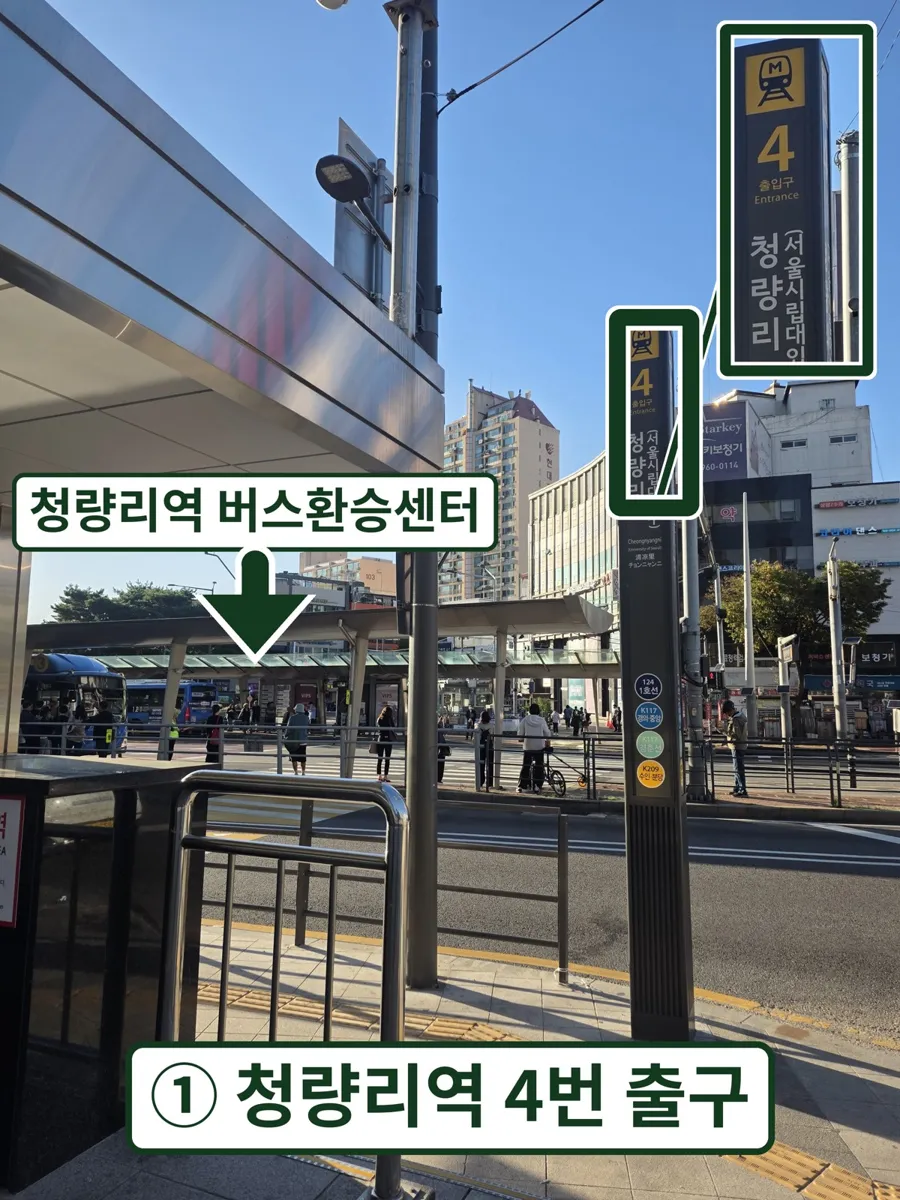
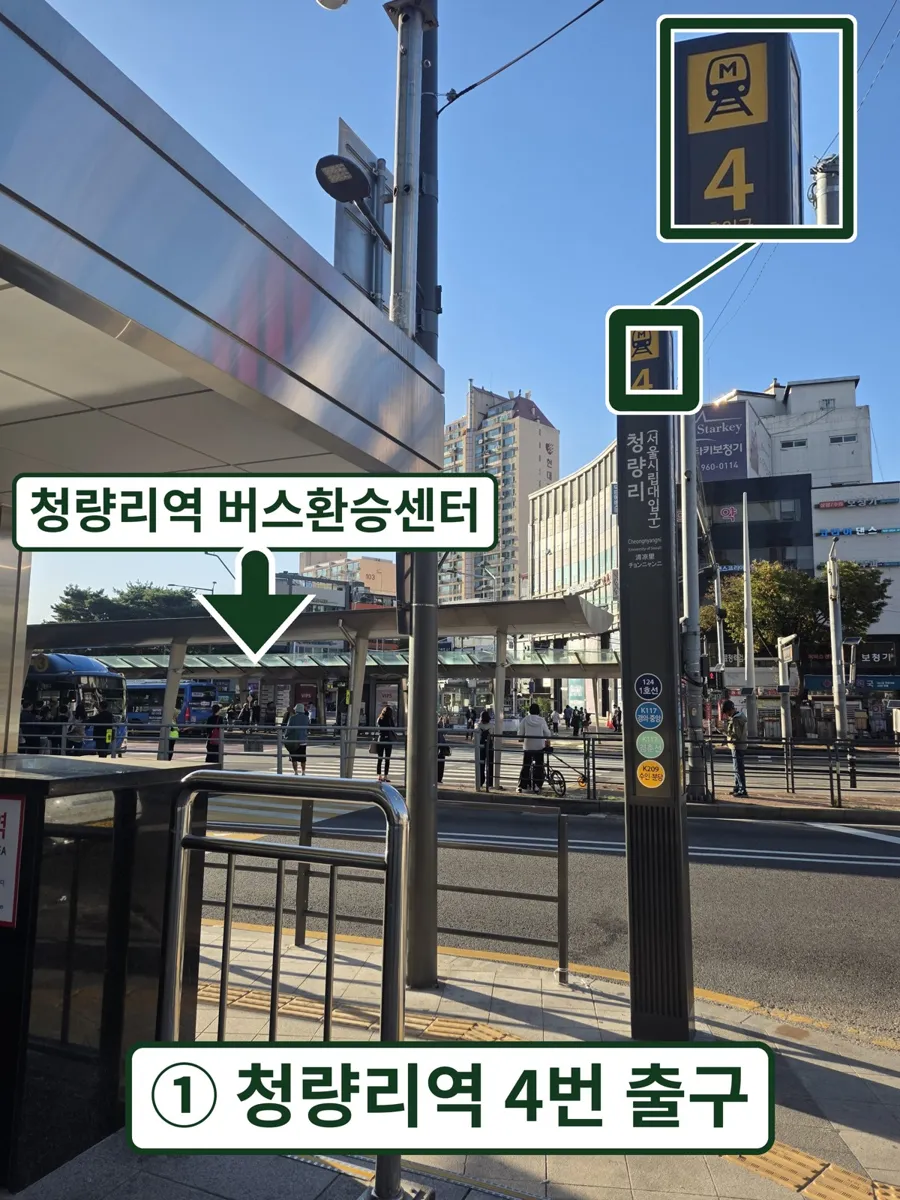
오시는 길: 아이콘 설명 글씨 키움, 경의중앙선 설명을 '1번 출구 → 청량리역 4번 출구'로, 4번 출구 사진 확대 박스 정리
Claude-Session: https://claude.ai/code/session_01DTmA7sd1pAqeWLwb5GSrVU

Changed region(s): [[0.6533, 0.0, 0.9956, 0.4317], [0.7156, 0.2467, 0.7467, 0.2775]]

diff --git a/about/index.html b/about/index.html
@@ -70,7 +70,7 @@
 <tr><th><span class="jt"><i>전</i><i>화</i></span></th><td><a href="tel:02-6952-6357"><span class="kp">02-6952-6357</span></a> (팩스 <span class="kp">02-6952-6359</span>)</td></tr>
 <tr><th><span class="jt"><i>지</i><i>역</i></span></th><td><a href="/area/dongdaemun/">동대문구 세무사 안내 보기 →</a></td></tr>
 </table>
-<div id="route"><style>.rt-intro{margin:18px 0 10px;font-weight:700}.rt-grid{display:grid;grid-template-columns:repeat(4,1fr);gap:10px}@media(max-width:640px){.rt-grid{grid-template-columns:1fr 1fr}}.rt-btn{border:2px solid var(--line);background:var(--surface);color:var(--green);border-radius:14px;padding:16px 6px 12px;display:flex;flex-direction:column;align-items:center;gap:6px;cursor:pointer;font:inherit}.rt-btn svg{width:52px;height:52px}.rt-btn b{font-size:17px}.rt-btn small{font-size:12.5px;opacity:.75}.rt-btn.on{border-color:var(--green);background:var(--tint,#EBF1ED)}.rt-set{margin-top:18px;scroll-margin-top:84px}#route{scroll-margin-top:84px}.rt-set h3{color:var(--green);margin:0 0 12px}.rt-set figure{margin:0 0 16px}.rt-set figcaption{font-size:13px;opacity:.7;margin-bottom:6px}.rt-set img{display:block;width:100%;max-width:560px;height:auto;border-radius:12px;border:1px solid var(--line)}.rt-top{border:1px solid var(--green);background:var(--surface);color:var(--green);border-radius:20px;padding:8px 18px;font:inherit;font-size:14px;cursor:pointer}</style><p class="rt-intro">오시는 방법을 누르면 그 길만 사진으로 보여 드립니다.</p><div class="rt-grid"><button type="button" class="rt-btn" data-k="line1" aria-controls="rt-line1"><svg viewBox="0 0 64 64" fill="none" stroke="currentColor" stroke-width="4" stroke-linejoin="round" aria-hidden="true"><rect x="14" y="6" width="36" height="42" rx="9"/><path d="M14 30h36M22 56l6-8M42 56l-6-8"/><circle cx="23" cy="39" r="2.5" fill="currentColor"/><circle cx="41" cy="39" r="2.5" fill="currentColor"/></svg><b>1호선</b><small>청량리역 4번 출구</small></button><button type="button" class="rt-btn" data-k="gyeongui" aria-controls="rt-gyeongui"><svg viewBox="0 0 64 64" fill="none" stroke="currentColor" stroke-width="4" stroke-linejoin="round" aria-hidden="true"><path d="M10 44V20c0-6 5-10 11-10h22c6 0 11 4 11 10v24z"/><path d="M10 30h44"/><circle cx="20" cy="38" r="2.5" fill="currentColor"/><circle cx="44" cy="38" r="2.5" fill="currentColor"/><path d="M6 54h52M18 44l-4 10M46 44l4 10"/></svg><b>경의중앙선</b><small>1번 출구 → 데크</small></button><button type="button" class="rt-btn" data-k="bus" aria-controls="rt-bus"><svg viewBox="0 0 64 64" fill="none" stroke="currentColor" stroke-width="4" stroke-linejoin="round" aria-hidden="true"><rect x="12" y="8" width="40" height="42" rx="7"/><path d="M12 32h40M20 16h24"/><circle cx="21" cy="41" r="2.5" fill="currentColor"/><circle cx="43" cy="41" r="2.5" fill="currentColor"/><path d="M18 50v6M46 50v6"/></svg><b>버스</b><small>청량리역 버스환승센터</small></button><button type="button" class="rt-btn" data-k="car" aria-controls="rt-car"><svg viewBox="0 0 64 64" fill="none" stroke="currentColor" stroke-width="4" stroke-linejoin="round" aria-hidden="true"><path d="M8 40v-8l6-14h36l6 14v8z"/><path d="M8 32h48"/><circle cx="19" cy="44" r="5"/><circle cx="45" cy="44" r="5"/></svg><b>자차</b><small>지하4층 · 2시간 무료</small></button></div><div class="rt-set" id="rt-line1" hidden><h3>1호선로 오시는 길</h3><figure><figcaption>1 / 9</figcaption><img src="/assets/route/c-01.webp" alt="1호선로 오시는 길 1단계" loading="lazy" width="900"></figure><figure><figcaption>2 / 9</figcaption><img src="/assets/route/c-02.webp" alt="1호선로 오시는 길 2단계" loading="lazy" width="900"></figure><figure><figcaption>3 / 9</figcaption><img src="/assets/route/c-03.webp" alt="1호선로 오시는 길 3단계" loading="lazy" width="900"></figure><figure><figcaption>4 / 9</figcaption><img src="/assets/route/c-04.webp" alt="1호선로 오시는 길 4단계" loading="lazy" width="900"></figure><figure><figcaption>5 / 9</figcaption><img src="/assets/route/c-05.webp" alt="1호선로 오시는 길 5단계" loading="lazy" width="900"></figure><figure><figcaption>6 / 9</figcaption><img src="/assets/route/c-06.webp" alt="1호선로 오시는 길 6단계" loading="lazy" width="900"></figure><figure><figcaption>7 / 9</figcaption><img src="/assets/route/c-07.webp" alt="1호선로 오시는 길 7단계" loading="lazy" width="900"></figure><figure><figcaption>8 / 9</figcaption><img src="/assets/route/c-08.webp" alt="1호선로 오시는 길 8단계" loading="lazy" width="900"></figure><figure><figcaption>9 / 9</figcaption><img src="/assets/route/c-09.webp" alt="1호선로 오시는 길 9단계" loading="lazy" width="900"></figure><button type="button" class="rt-top">다른 방법 보기 ↑</button></div><div class="rt-set" id="rt-gyeongui" hidden><h3>경의중앙선로 오시는 길</h3><figure><figcaption>1 / 12</figcaption><img src="/assets/route/gy-01.webp" alt="경의중앙선로 오시는 길 1단계" loading="lazy" width="900"></figure><figure><figcaption>2 / 12</figcaption><img src="/assets/route/gy-02.webp" alt="경의중앙선로 오시는 길 2단계" loading="lazy" width="900"></figure><figure><figcaption>3 / 12</figcaption><img src="/assets/route/gy-03.webp" alt="경의중앙선로 오시는 길 3단계" loading="lazy" width="900"></figure><figure><figcaption>4 / 12</figcaption><img src="/assets/route/c-01.webp" alt="경의중앙선로 오시는 길 4단계" loading="lazy" width="900"></figure><figure><figcaption>5 / 12</figcaption><img src="/assets/route/c-02.webp" alt="경의중앙선로 오시는 길 5단계" loading="lazy" width="900"></figure><figure><figcaption>6 / 12</figcaption><img src="/assets/route/c-03.webp" alt="경의중앙선로 오시는 길 6단계" loading="lazy" width="900"></figure><figure><figcaption>7 / 12</figcaption><img src="/assets/route/c-04.webp" alt="경의중앙선로 오시는 길 7단계" loading="lazy" width="900"></figure><figure><figcaption>8 / 12</figcaption><img src="/assets/route/c-05.webp" alt="경의중앙선로 오시는 길 8단계" loading="lazy" width="900"></figure><figure><figcaption>9 / 12</figcaption><img src="/assets/route/c-06.webp" alt="경의중앙선로 오시는 길 9단계" loading="lazy" width="900"></figure><figure><figcaption>10 / 12</figcaption><img src="/assets/route/c-07.webp" alt="경의중앙선로 오시는 길 10단계" loading="lazy" width="900"></figure><figure><figcaption>11 / 12</figcaption><img src="/assets/route/c-08.webp" alt="경의중앙선로 오시는 길 11단계" loading="lazy" width="900"></figure><figure><figcaption>12 / 12</figcaption><img src="/assets/route/c-09.webp" alt="경의중앙선로 오시는 길 12단계" loading="lazy" width="900"></figure><button type="button" class="rt-top">다른 방법 보기 ↑</button></div><div class="rt-set" id="rt-bus" hidden><h3>버스로 오시는 길</h3><figure><figcaption>1 / 9</figcaption><img src="/assets/route/c-01.webp" alt="버스로 오시는 길 1단계" loading="lazy" width="900"></figure><figure><figcaption>2 / 9</figcaption><img src="/assets/route/c-02.webp" alt="버스로 오시는 길 2단계" loading="lazy" width="900"></figure><figure><figcaption>3 / 9</figcaption><img src="/assets/route/c-03.webp" alt="버스로 오시는 길 3단계" loading="lazy" width="900"></figure><figure><figcaption>4 / 9</figcaption><img src="/assets/route/c-04.webp" alt="버스로 오시는 길 4단계" loading="lazy" width="900"></figure><figure><figcaption>5 / 9</figcaption><img src="/assets/route/c-05.webp" alt="버스로 오시는 길 5단계" loading="lazy" width="900"></figure><figure><figcaption>6 / 9</figcaption><img src="/assets/route/c-06.webp" alt="버스로 오시는 길 6단계" loading="lazy" width="900"></figure><figure><figcaption>7 / 9</figcaption><img src="/assets/route/c-07.webp" alt="버스로 오시는 길 7단계" loading="lazy" width="900"></figure><figure><figcaption>8 / 9</figcaption><img src="/assets/route/c-08.webp" alt="버스로 오시는 길 8단계" loading="lazy" width="900"></figure><figure><figcaption>9 / 9</figcaption><img src="/assets/route/c-09.webp" alt="버스로 오시는 길 9단계" loading="lazy" width="900"></figure><button type="button" class="rt-top">다른 방법 보기 ↑</button></div><div class="rt-set" id="rt-car" hidden><h3>자차로 오시는 길</h3><figure><figcaption>1 / 7</figcaption><img src="/assets/route/car-01.webp" alt="자차로 오시는 길 1단계" loading="lazy" width="900"></figure><figure><figcaption>2 / 7</figcaption><img src="/assets/route/car-02.webp" alt="자차로 오시는 길 2단계" loading="lazy" width="900"></figure><figure><figcaption>3 / 7</figcaption><img src="/assets/route/car-03.webp" alt="자차로 오시는 길 3단계" loading="lazy" width="900"></figure><figure><figcaption>4 / 7</figcaption><img src="/assets/route/car-04.webp" alt="자차로 오시는 길 4단계" loading="lazy" width="900"></figure><figure><figcaption>5 / 7</figcaption><img src="/assets/route/car-05.webp" alt="자차로 오시는 길 5단계" loading="lazy" width="900"></figure><figure><figcaption>6 / 7</figcaption><img src="/assets/route/c-08.webp" alt="자차로 오시는 길 6단계" loading="lazy" width="900"></figure><figure><figcaption>7 / 7</figcaption><img src="/assets/route/c-09.webp" alt="자차로 오시는 길 7단계" loading="lazy" width="900"></figure><button type="button" class="rt-top">다른 방법 보기 ↑</button></div><p style="margin-top:14px;font-size:14px;opacity:.8">청량리역 4번 출구에서 도보 약 1~2분 · 차량번호를 알려주시면 2시간 무료 주차를 등록해 드립니다.</p></div><script>(function(){var B=document.querySelectorAll(".rt-btn"),S=document.querySelectorAll(".rt-set");function show(k,sc){B.forEach(function(b){b.classList.toggle("on",b.dataset.k===k);b.setAttribute("aria-expanded",b.dataset.k===k)});S.forEach(function(s){s.hidden=s.id!=="rt-"+k});var t=document.getElementById("rt-"+k);if(t&&sc)t.scrollIntoView({behavior:"smooth",block:"start"});}B.forEach(function(b){b.addEventListener("click",function(){show(b.dataset.k,true);history.replaceState(null,"","#go-"+b.dataset.k)})});document.querySelectorAll(".rt-top").forEach(function(b){b.addEventListener("click",function(){document.getElementById("route").scrollIntoView({behavior:"smooth"})})});var m=location.hash.match(/^#go-(\w+)$/);if(m&&document.getElementById("rt-"+m[1])){show(m[1],false);setTimeout(function(){document.getElementById("rt-"+m[1]).scrollIntoView({block:"start"})},60)}})();</script>
+<div id="route"><style>.rt-intro{margin:18px 0 10px;font-weight:700}.rt-grid{display:grid;grid-template-columns:repeat(4,1fr);gap:10px}@media(max-width:640px){.rt-grid{grid-template-columns:1fr 1fr}}.rt-btn{border:2px solid var(--line);background:var(--surface);color:var(--green);border-radius:14px;padding:16px 6px 12px;display:flex;flex-direction:column;align-items:center;gap:6px;cursor:pointer;font:inherit}.rt-btn svg{width:52px;height:52px}.rt-btn b{font-size:17px}.rt-btn small{font-size:15px;opacity:.8;line-height:1.35;text-align:center}.rt-btn.on{border-color:var(--green);background:var(--tint,#EBF1ED)}.rt-set{margin-top:18px;scroll-margin-top:84px}#route{scroll-margin-top:84px}.rt-set h3{color:var(--green);margin:0 0 12px}.rt-set figure{margin:0 0 16px}.rt-set figcaption{font-size:13px;opacity:.7;margin-bottom:6px}.rt-set img{display:block;width:100%;max-width:560px;height:auto;border-radius:12px;border:1px solid var(--line)}.rt-top{border:1px solid var(--green);background:var(--surface);color:var(--green);border-radius:20px;padding:8px 18px;font:inherit;font-size:14px;cursor:pointer}</style><p class="rt-intro">오시는 방법을 누르면 그 길만 사진으로 보여 드립니다.</p><div class="rt-grid"><button type="button" class="rt-btn" data-k="line1" aria-controls="rt-line1"><svg viewBox="0 0 64 64" fill="none" stroke="currentColor" stroke-width="4" stroke-linejoin="round" aria-hidden="true"><rect x="14" y="6" width="36" height="42" rx="9"/><path d="M14 30h36M22 56l6-8M42 56l-6-8"/><circle cx="23" cy="39" r="2.5" fill="currentColor"/><circle cx="41" cy="39" r="2.5" fill="currentColor"/></svg><b>1호선</b><small>청량리역 4번 출구</small></button><button type="button" class="rt-btn" data-k="gyeongui" aria-controls="rt-gyeongui"><svg viewBox="0 0 64 64" fill="none" stroke="currentColor" stroke-width="4" stroke-linejoin="round" aria-hidden="true"><path d="M10 44V20c0-6 5-10 11-10h22c6 0 11 4 11 10v24z"/><path d="M10 30h44"/><circle cx="20" cy="38" r="2.5" fill="currentColor"/><circle cx="44" cy="38" r="2.5" fill="currentColor"/><path d="M6 54h52M18 44l-4 10M46 44l4 10"/></svg><b>경의중앙선</b><small>1번 출구 → 청량리역 4번 출구</small></button><button type="button" class="rt-btn" data-k="bus" aria-controls="rt-bus"><svg viewBox="0 0 64 64" fill="none" stroke="currentColor" stroke-width="4" stroke-linejoin="round" aria-hidden="true"><rect x="12" y="8" width="40" height="42" rx="7"/><path d="M12 32h40M20 16h24"/><circle cx="21" cy="41" r="2.5" fill="currentColor"/><circle cx="43" cy="41" r="2.5" fill="currentColor"/><path d="M18 50v6M46 50v6"/></svg><b>버스</b><small>청량리역 버스환승센터</small></button><button type="button" class="rt-btn" data-k="car" aria-controls="rt-car"><svg viewBox="0 0 64 64" fill="none" stroke="currentColor" stroke-width="4" stroke-linejoin="round" aria-hidden="true"><path d="M8 40v-8l6-14h36l6 14v8z"/><path d="M8 32h48"/><circle cx="19" cy="44" r="5"/><circle cx="45" cy="44" r="5"/></svg><b>자차</b><small>지하4층 · 2시간 무료</small></button></div><div class="rt-set" id="rt-line1" hidden><h3>1호선로 오시는 길</h3><figure><figcaption>1 / 9</figcaption><img src="/assets/route/c-01.webp" alt="1호선로 오시는 길 1단계" loading="lazy" width="900"></figure><figure><figcaption>2 / 9</figcaption><img src="/assets/route/c-02.webp" alt="1호선로 오시는 길 2단계" loading="lazy" width="900"></figure><figure><figcaption>3 / 9</figcaption><img src="/assets/route/c-03.webp" alt="1호선로 오시는 길 3단계" loading="lazy" width="900"></figure><figure><figcaption>4 / 9</figcaption><img src="/assets/route/c-04.webp" alt="1호선로 오시는 길 4단계" loading="lazy" width="900"></figure><figure><figcaption>5 / 9</figcaption><img src="/assets/route/c-05.webp" alt="1호선로 오시는 길 5단계" loading="lazy" width="900"></figure><figure><figcaption>6 / 9</figcaption><img src="/assets/route/c-06.webp" alt="1호선로 오시는 길 6단계" loading="lazy" width="900"></figure><figure><figcaption>7 / 9</figcaption><img src="/assets/route/c-07.webp" alt="1호선로 오시는 길 7단계" loading="lazy" width="900"></figure><figure><figcaption>8 / 9</figcaption><img src="/assets/route/c-08.webp" alt="1호선로 오시는 길 8단계" loading="lazy" width="900"></figure><figure><figcaption>9 / 9</figcaption><img src="/assets/route/c-09.webp" alt="1호선로 오시는 길 9단계" loading="lazy" width="900"></figure><button type="button" class="rt-top">다른 방법 보기 ↑</button></div><div class="rt-set" id="rt-gyeongui" hidden><h3>경의중앙선로 오시는 길</h3><figure><figcaption>1 / 12</figcaption><img src="/assets/route/gy-01.webp" alt="경의중앙선로 오시는 길 1단계" loading="lazy" width="900"></figure><figure><figcaption>2 / 12</figcaption><img src="/assets/route/gy-02.webp" alt="경의중앙선로 오시는 길 2단계" loading="lazy" width="900"></figure><figure><figcaption>3 / 12</figcaption><img src="/assets/route/gy-03.webp" alt="경의중앙선로 오시는 길 3단계" loading="lazy" width="900"></figure><figure><figcaption>4 / 12</figcaption><img src="/assets/route/c-01.webp" alt="경의중앙선로 오시는 길 4단계" loading="lazy" width="900"></figure><figure><figcaption>5 / 12</figcaption><img src="/assets/route/c-02.webp" alt="경의중앙선로 오시는 길 5단계" loading="lazy" width="900"></figure><figure><figcaption>6 / 12</figcaption><img src="/assets/route/c-03.webp" alt="경의중앙선로 오시는 길 6단계" loading="lazy" width="900"></figure><figure><figcaption>7 / 12</figcaption><img src="/assets/route/c-04.webp" alt="경의중앙선로 오시는 길 7단계" loading="lazy" width="900"></figure><figure><figcaption>8 / 12</figcaption><img src="/assets/route/c-05.webp" alt="경의중앙선로 오시는 길 8단계" loading="lazy" width="900"></figure><figure><figcaption>9 / 12</figcaption><img src="/assets/route/c-06.webp" alt="경의중앙선로 오시는 길 9단계" loading="lazy" width="900"></figure><figure><figcaption>10 / 12</figcaption><img src="/assets/route/c-07.webp" alt="경의중앙선로 오시는 길 10단계" loading="lazy" width="900"></figure><figure><figcaption>11 / 12</figcaption><img src="/assets/route/c-08.webp" alt="경의중앙선로 오시는 길 11단계" loading="lazy" width="900"></figure><figure><figcaption>12 / 12</figcaption><img src="/assets/route/c-09.webp" alt="경의중앙선로 오시는 길 12단계" loading="lazy" width="900"></figure><button type="button" class="rt-top">다른 방법 보기 ↑</button></div><div class="rt-set" id="rt-bus" hidden><h3>버스로 오시는 길</h3><figure><figcaption>1 / 9</figcaption><img src="/assets/route/c-01.webp" alt="버스로 오시는 길 1단계" loading="lazy" width="900"></figure><figure><figcaption>2 / 9</figcaption><img src="/assets/route/c-02.webp" alt="버스로 오시는 길 2단계" loading="lazy" width="900"></figure><figure><figcaption>3 / 9</figcaption><img src="/assets/route/c-03.webp" alt="버스로 오시는 길 3단계" loading="lazy" width="900"></figure><figure><figcaption>4 / 9</figcaption><img src="/assets/route/c-04.webp" alt="버스로 오시는 길 4단계" loading="lazy" width="900"></figure><figure><figcaption>5 / 9</figcaption><img src="/assets/route/c-05.webp" alt="버스로 오시는 길 5단계" loading="lazy" width="900"></figure><figure><figcaption>6 / 9</figcaption><img src="/assets/route/c-06.webp" alt="버스로 오시는 길 6단계" loading="lazy" width="900"></figure><figure><figcaption>7 / 9</figcaption><img src="/assets/route/c-07.webp" alt="버스로 오시는 길 7단계" loading="lazy" width="900"></figure><figure><figcaption>8 / 9</figcaption><img src="/assets/route/c-08.webp" alt="버스로 오시는 길 8단계" loading="lazy" width="900"></figure><figure><figcaption>9 / 9</figcaption><img src="/assets/route/c-09.webp" alt="버스로 오시는 길 9단계" loading="lazy" width="900"></figure><button type="button" class="rt-top">다른 방법 보기 ↑</button></div><div class="rt-set" id="rt-car" hidden><h3>자차로 오시는 길</h3><figure><figcaption>1 / 7</figcaption><img src="/assets/route/car-01.webp" alt="자차로 오시는 길 1단계" loading="lazy" width="900"></figure><figure><figcaption>2 / 7</figcaption><img src="/assets/route/car-02.webp" alt="자차로 오시는 길 2단계" loading="lazy" width="900"></figure><figure><figcaption>3 / 7</figcaption><img src="/assets/route/car-03.webp" alt="자차로 오시는 길 3단계" loading="lazy" width="900"></figure><figure><figcaption>4 / 7</figcaption><img src="/assets/route/car-04.webp" alt="자차로 오시는 길 4단계" loading="lazy" width="900"></figure><figure><figcaption>5 / 7</figcaption><img src="/assets/route/car-05.webp" alt="자차로 오시는 길 5단계" loading="lazy" width="900"></figure><figure><figcaption>6 / 7</figcaption><img src="/assets/route/c-08.webp" alt="자차로 오시는 길 6단계" loading="lazy" width="900"></figure><figure><figcaption>7 / 7</figcaption><img src="/assets/route/c-09.webp" alt="자차로 오시는 길 7단계" loading="lazy" width="900"></figure><button type="button" class="rt-top">다른 방법 보기 ↑</button></div><p style="margin-top:14px;font-size:14px;opacity:.8">청량리역 4번 출구에서 도보 약 1~2분 · 차량번호를 알려주시면 2시간 무료 주차를 등록해 드립니다.</p></div><script>(function(){var B=document.querySelectorAll(".rt-btn"),S=document.querySelectorAll(".rt-set");function show(k,sc){B.forEach(function(b){b.classList.toggle("on",b.dataset.k===k);b.setAttribute("aria-expanded",b.dataset.k===k)});S.forEach(function(s){s.hidden=s.id!=="rt-"+k});var t=document.getElementById("rt-"+k);if(t&&sc)t.scrollIntoView({behavior:"smooth",block:"start"});}B.forEach(function(b){b.addEventListener("click",function(){show(b.dataset.k,true);history.replaceState(null,"","#go-"+b.dataset.k)})});document.querySelectorAll(".rt-top").forEach(function(b){b.addEventListener("click",function(){document.getElementById("route").scrollIntoView({behavior:"smooth"})})});var m=location.hash.match(/^#go-(\w+)$/);if(m&&document.getElementById("rt-"+m[1])){show(m[1],false);setTimeout(function(){document.getElementById("rt-"+m[1]).scrollIntoView({block:"start"})},60)}})();</script>
 <img class="loc-map" style="margin:16px 0 0" src="/assets/map-location.svg" width="1600" height="905" alt="세무회계택 약도 — 청량리역 1호선과 청량리역·롯데백화점 사이, 청량리롯데캐슬 L65" loading="lazy">
 
 </section></div>

diff --git a/build.py b/build.py
@@ -679,7 +679,7 @@ def build_home(posts):
 # 오시는 길 — 출발점 아이콘을 누르면 그 경로 사진만 표시 (2026-10-14). 주소 #go-line1 / #go-gyeongui / #go-bus / #go-car 로 바로 열림
 ROUTE_SETS = {
     "line1": ("1호선", "청량리역 4번 출구", ["c-01","c-02","c-03","c-04","c-05","c-06","c-07","c-08","c-09"]),
-    "gyeongui": ("경의중앙선", "1번 출구 → 데크", ["gy-01","gy-02","gy-03","c-01","c-02","c-03","c-04","c-05","c-06","c-07","c-08","c-09"]),
+    "gyeongui": ("경의중앙선", "1번 출구 → 청량리역 4번 출구", ["gy-01","gy-02","gy-03","c-01","c-02","c-03","c-04","c-05","c-06","c-07","c-08","c-09"]),
     "bus": ("버스", "청량리역 버스환승센터", ["c-01","c-02","c-03","c-04","c-05","c-06","c-07","c-08","c-09"]),
     "car": ("자차", "지하4층 · 2시간 무료", ["car-01","car-02","car-03","car-04","car-05","c-08","c-09"]),
 }
@@ -696,7 +696,7 @@ def route_html():
         n = len(imgs)
         items = "".join(f'<figure><figcaption>{i} / {n}</figcaption><img src="/assets/route/{f}.webp" alt="{t}로 오시는 길 {i}단계" loading="lazy" width="900"></figure>' for i, f in enumerate(imgs, 1))
         sets += f'<div class="rt-set" id="rt-{k}" hidden><h3>{t}로 오시는 길</h3>{items}<button type="button" class="rt-top">다른 방법 보기 ↑</button></div>'
-    css = '<style>.rt-intro{margin:18px 0 10px;font-weight:700}.rt-grid{display:grid;grid-template-columns:repeat(4,1fr);gap:10px}@media(max-width:640px){.rt-grid{grid-template-columns:1fr 1fr}}.rt-btn{border:2px solid var(--line);background:var(--surface);color:var(--green);border-radius:14px;padding:16px 6px 12px;display:flex;flex-direction:column;align-items:center;gap:6px;cursor:pointer;font:inherit}.rt-btn svg{width:52px;height:52px}.rt-btn b{font-size:17px}.rt-btn small{font-size:12.5px;opacity:.75}.rt-btn.on{border-color:var(--green);background:var(--tint,#EBF1ED)}.rt-set{margin-top:18px;scroll-margin-top:84px}#route{scroll-margin-top:84px}.rt-set h3{color:var(--green);margin:0 0 12px}.rt-set figure{margin:0 0 16px}.rt-set figcaption{font-size:13px;opacity:.7;margin-bottom:6px}.rt-set img{display:block;width:100%;max-width:560px;height:auto;border-radius:12px;border:1px solid var(--line)}.rt-top{border:1px solid var(--green);background:var(--surface);color:var(--green);border-radius:20px;padding:8px 18px;font:inherit;font-size:14px;cursor:pointer}</style>'
+    css = '<style>.rt-intro{margin:18px 0 10px;font-weight:700}.rt-grid{display:grid;grid-template-columns:repeat(4,1fr);gap:10px}@media(max-width:640px){.rt-grid{grid-template-columns:1fr 1fr}}.rt-btn{border:2px solid var(--line);background:var(--surface);color:var(--green);border-radius:14px;padding:16px 6px 12px;display:flex;flex-direction:column;align-items:center;gap:6px;cursor:pointer;font:inherit}.rt-btn svg{width:52px;height:52px}.rt-btn b{font-size:17px}.rt-btn small{font-size:15px;opacity:.8;line-height:1.35;text-align:center}.rt-btn.on{border-color:var(--green);background:var(--tint,#EBF1ED)}.rt-set{margin-top:18px;scroll-margin-top:84px}#route{scroll-margin-top:84px}.rt-set h3{color:var(--green);margin:0 0 12px}.rt-set figure{margin:0 0 16px}.rt-set figcaption{font-size:13px;opacity:.7;margin-bottom:6px}.rt-set img{display:block;width:100%;max-width:560px;height:auto;border-radius:12px;border:1px solid var(--line)}.rt-top{border:1px solid var(--green);background:var(--surface);color:var(--green);border-radius:20px;padding:8px 18px;font:inherit;font-size:14px;cursor:pointer}</style>'
     js = '<script>(function(){var B=document.querySelectorAll(".rt-btn"),S=document.querySelectorAll(".rt-set");function show(k,sc){B.forEach(function(b){b.classList.toggle("on",b.dataset.k===k);b.setAttribute("aria-expanded",b.dataset.k===k)});S.forEach(function(s){s.hidden=s.id!=="rt-"+k});var t=document.getElementById("rt-"+k);if(t&&sc)t.scrollIntoView({behavior:"smooth",block:"start"});}B.forEach(function(b){b.addEventListener("click",function(){show(b.dataset.k,true);history.replaceState(null,"","#go-"+b.dataset.k)})});document.querySelectorAll(".rt-top").forEach(function(b){b.addEventListener("click",function(){document.getElementById("route").scrollIntoView({behavior:"smooth"})})});var m=location.hash.match(/^#go-(\\w+)$/);if(m&&document.getElementById("rt-"+m[1])){show(m[1],false);setTimeout(function(){document.getElementById("rt-"+m[1]).scrollIntoView({block:"start"})},60)}})();</script>'
     return f'<div id="route">{css}<p class="rt-intro">오시는 방법을 누르면 그 길만 사진으로 보여 드립니다.</p><div class="rt-grid">{btns}</div>{sets}<p style="margin-top:14px;font-size:14px;opacity:.8">청량리역 4번 출구에서 도보 약 1~2분 · 차량번호를 알려주시면 2시간 무료 주차를 등록해 드립니다.</p></div>{js}'
 
